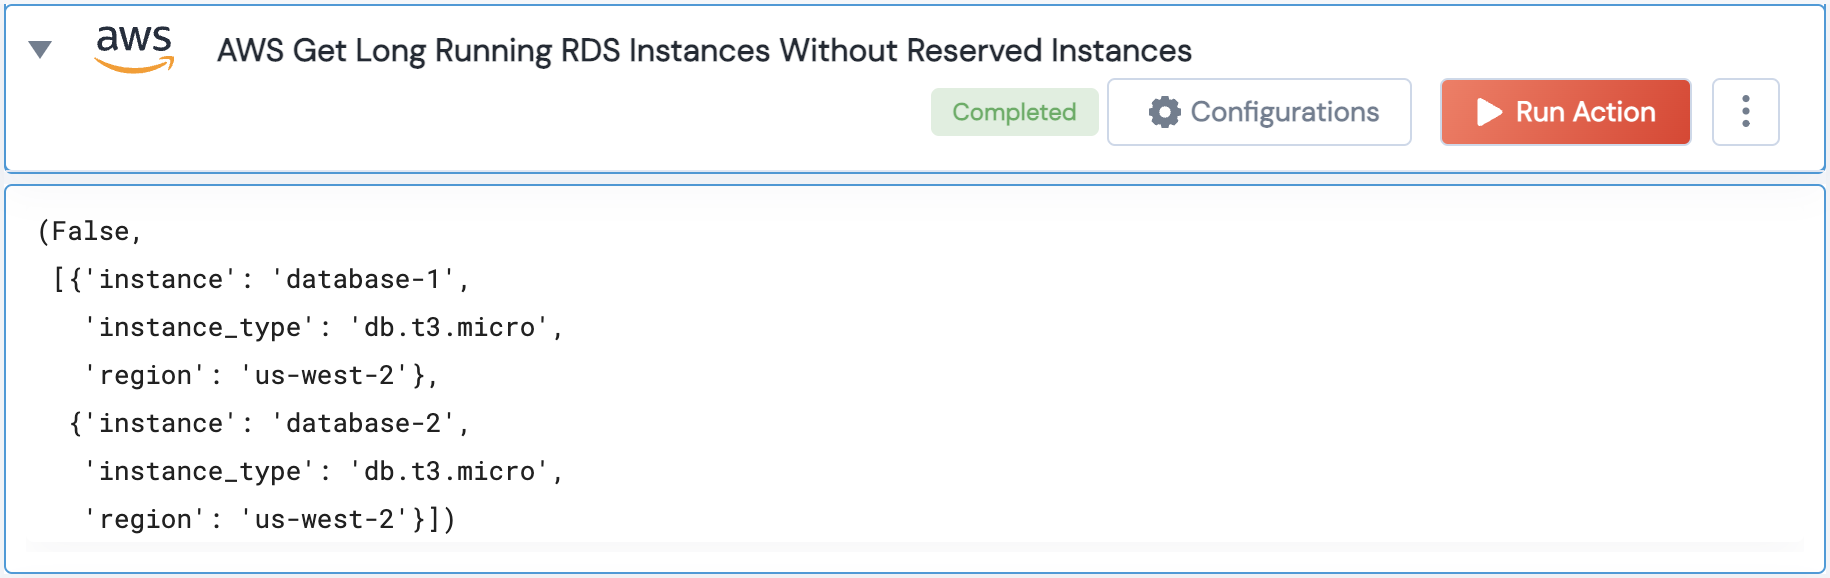
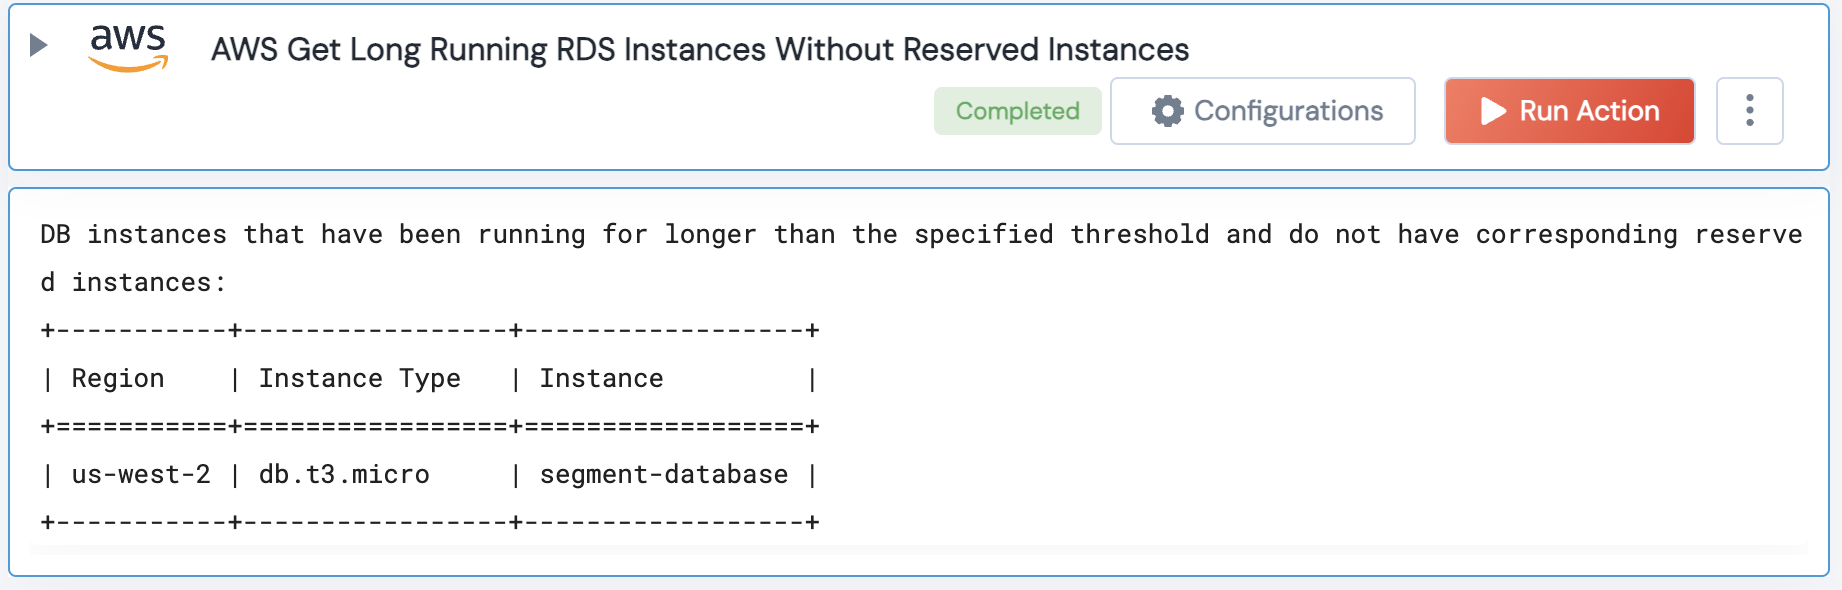
PR comments

diff --git a/AWS/legos/aws_get_long_running_rds_instances_without_reserved_instances/aws_get_long_running_rds_instances_without_reserved_instances.py b/AWS/legos/aws_get_long_running_rds_instances_without_reserved_instances/aws_get_long_running_rds_instances_without_reserved_instances.py
@@ -2,7 +2,7 @@
 ##  Copyright (c) 2023 unSkript, Inc
 ##  All rights reserved.
 ##
-import pprint
+from tabulate import tabulate
 from typing import Optional, Tuple
 from pydantic import BaseModel, Field
 from datetime import datetime,timedelta, timezone
@@ -19,22 +19,32 @@ class InputSchema(BaseModel):
 
 def aws_get_long_running_rds_instances_without_reserved_instances_printer(output):
     if output is None:
+        print("Output is None.")
         return
-    pprint.pprint(output)
+    status, res = output
+    if status:
+        print("There are no DB instances that have been running for longer than the specified threshold and do not have corresponding reserved instances.")
+    else:
+        print("DB instances that have been running for longer than the specified threshold and do not have corresponding reserved instances:")
+        table_data = [[item['region'], item['instance_type'], item['instance']] for item in res]
+        headers = ['Region', 'Instance Type', 'Instance']
+        table = tabulate(table_data, headers=headers, tablefmt='grid')
+        print(table)
 
-def aws_get_long_running_rds_instances_without_reserved_instances(handle, region: str = "", threshold:int=10) -> Tuple:
-    """aws_get_long_running_rds_instances_without_reserved_instances Gets all DB instances that are not m5 or t3.
 
-        :type handle: object
-        :param handle: Object returned from task.validate(...).
+def aws_get_long_running_rds_instances_without_reserved_instances(handle, region: str = "", threshold: float = 10.0) -> Tuple:
+    """aws_get_long_running_rds_instances_without_reserved_instances Gets all DB instances that have been running for longer than the specified threshold and do not have corresponding reserved instances.
 
-        :type region: string
-        :param region: AWS Region.
+    :type handle: object
+    :param handle: Object returned from task.validate(...).
 
-        :type threshold: int
-        :param threshold: Threshold(in days) to find long running RDS instances. Eg: 30, This will find all the instances that have been created a month ago.
+    :type region: string
+    :param region: AWS Region.
 
-        :rtype: A tuple with a Status,and list of DB instances that don't have reserved instances
+    :type threshold: int
+    :param threshold: Threshold(in days) to find long running RDS instances. Eg: 30, This will find all the instances that have been created a month ago.
+
+    :rtype: A tuple with a Status,and list of DB instances that don't have reserved instances
     """
     result = []
     all_regions = [region]
@@ -44,13 +54,11 @@ def aws_get_long_running_rds_instances_without_reserved_instances(handle, region
     for reg in all_regions:
         try:
             rdsClient = handle.client('rds', region_name=reg)
-            response = rdsClient.describe_reserved_db_instances() 
+            response = rdsClient.describe_reserved_db_instances()
             reservedInstancesPerType = {}
-            if response['ReservedDBInstances']:
+            if 'ReservedDBInstances' in response:
                 for ins in response['ReservedDBInstances']:
-                    reservedInstancesPerRegion[ins['DBInstanceClass']] = True
-            else:
-                continue
+                    reservedInstancesPerType[ins['DBInstanceClass']] = True
             reservedInstancesPerRegion[reg] = reservedInstancesPerType
         except Exception:
             pass
@@ -64,16 +72,15 @@ def aws_get_long_running_rds_instances_without_reserved_instances(handle, region
                     if 'InstanceCreateTime' in instance and 'DBInstanceClass' in instance:
                         uptime = datetime.now(timezone.utc) - instance['InstanceCreateTime']
                         if uptime > timedelta(days=threshold):
-                            # Check if the cluster node type is present in the reservedInstancesPerRegion map.
-                            reservedInstances = reservedInstancesPerRegion.get(reg)
-                            if reservedInstances is not None:
-                                if reservedInstances.get(instance['DBInstanceClass']) is True:
-                                    continue
-                            db_instance_dict = {}
-                            db_instance_dict["region"] = reg
-                            db_instance_dict["instance_type"] = instance['DBInstanceClass']
-                            db_instance_dict["instance"] = instance['DBInstanceIdentifier']
-                            result.append(db_instance_dict)
+                            # Check if the DB instance type is present in the reservedInstancesPerRegion map.
+                            reservedInstances = reservedInstancesPerRegion.get(reg, {})
+                            if not reservedInstances.get(instance['DBInstanceClass']):
+                                db_instance_dict = {
+                                    "region": reg,
+                                    "instance_type": instance['DBInstanceClass'],
+                                    "instance": instance['DBInstanceIdentifier']
+                                }
+                                result.append(db_instance_dict)
         except Exception:
             pass
 
@@ -81,5 +88,3 @@ def aws_get_long_running_rds_instances_without_reserved_instances(handle, region
         return (False, result)
     else:
         return (True, None)
-
-

diff --git a/AWS/legos/aws_get_schedule_to_retire_instances/aws_get_schedule_to_retire_instances.py b/AWS/legos/aws_get_schedule_to_retire_instances/aws_get_schedule_to_retire_instances.py
@@ -3,7 +3,6 @@
 # All rights reserved.
 ##
 
-import pprint
 from typing import Tuple, Optional
 from pydantic import BaseModel, Field
 from unskript.legos.aws.aws_list_all_regions.aws_list_all_regions import aws_list_all_regions
@@ -21,8 +20,11 @@ class InputSchema(BaseModel):
 def aws_get_schedule_to_retire_instances_printer(output):
     if output is None:
         return
-
-    pprint.pprint(output)
+    status, res = output
+    if status:
+        print("There are no instances that are scheduled to retire.")
+    else:
+        print(res)
 
 def aws_get_schedule_to_retire_instances( handle, region: str="") -> Tuple:
     """aws_get_schedule_to_retire_instances Returns a tuple of instances scheduled to retire.
@@ -32,31 +34,27 @@ def aws_get_schedule_to_retire_instances( handle, region: str="") -> Tuple:
 
         :rtype: Object with status, list of instances scheduled to retire, and errors
     """
-    retiring_instances = {}
     result = []
-    all_regions = [region] if region else aws_list_all_regions(handle)
+    all_regions = [region] if region or len(region)!=0 else aws_list_all_regions(handle)
 
     for r in all_regions:
         try:
             ec2client = handle.client('ec2', region_name=r)
-            output = aws_filter_ec2_instances(handle=handle, region=r)
-            if output:
-                for o in output:
-                    all_instances_dict = {"region": r, "instance": o}
-                    try:
-                        response = ec2client.describe_instance_status(
-                            Filters=[{'Name': 'event.code', 'Values': ['instance-retirement']}],
-                            InstanceIds=[all_instances_dict['instance']]
-                        )
-                        instance_statuses = response.get('InstanceStatuses', [])
-                        for res in instance_statuses:
-                            retiring_instances = {'instance': res['InstanceId'], 'region': r}
-                            result.append(retiring_instances)
-                    except Exception as e:
-                        print(f"An error occurred while describing instance status for instance {o} in region {r}: {e}")
+            instances = aws_filter_ec2_instances(handle=handle, region=r)
+            if not instances:
+                print(f"No instances found in {r} region!")
+                continue
+            try:
+                response = ec2client.describe_instance_status(
+                    Filters=[{'Name': 'event.code', 'Values': ['instance-retirement']}],
+                    InstanceIds=instances
+                )
+                instance_statuses = response.get('InstanceStatuses', [])
+                for res in instance_statuses:
+                    result.append({'instance': res['InstanceId'], 'region': r})
+            except Exception as e:
+                print(f"An error occurred while describing instance status for instances in region {r}: {e}")
         except Exception:
             pass
 
-    if result:
-        return (False, result)
-    return (True, None)
+    return (False, result) if result else (True, None)

diff --git a/Kubernetes/legos/k8s_get_all_evicted_pods_from_namespace/k8s_get_all_evicted_pods_from_namespace.py b/Kubernetes/legos/k8s_get_all_evicted_pods_from_namespace/k8s_get_all_evicted_pods_from_namespace.py
@@ -36,8 +36,7 @@ def k8s_get_all_evicted_pods_from_namespace(handle, namespace: str = "") -> Tupl
         :rtype: Tuple of status result and list of evicted pods
     """
     if handle.client_side_validation is not True:
-        print(f"K8S Connector is invalid: {handle}")
-        return False, None
+        raise ApiException(f"K8S Connector is invalid: {handle}")
 
     # Define the kubectl command based on the namespace input
     kubectl_command = "kubectl get pods --all-namespaces -o json"
@@ -48,11 +47,11 @@ def k8s_get_all_evicted_pods_from_namespace(handle, namespace: str = "") -> Tupl
         response = handle.run_native_cmd(kubectl_command)
     except Exception as e:
         print(f"Error occurred while executing command {kubectl_command}: {str(e)}")
-        raise e
+        raise
 
     if response is None:
         print(f"Error while executing command ({kubectl_command}) (empty response)")
-        raise e
+        raise ApiException("Empty response from kubectl command")
 
     if response.stderr:
         raise ApiException(f"Error occurred while executing command {kubectl_command} {response.stderr}")
@@ -61,14 +60,14 @@ def k8s_get_all_evicted_pods_from_namespace(handle, namespace: str = "") -> Tupl
     try:
         pod_details = json.loads(response.stdout)
         for pod in pod_details.get('items', []):
-            if pod['status']['phase'] == 'Failed' and any(cs.get('reason') == 'Evicted' for cs in pod['status']['conditions']):
+            if pod['status']['phase'] == 'Failed' and any(cs.get('reason') == 'Evicted' for cs in pod['status'].get('conditions', [])):
                 pod_dict = {
                     "pod_name": pod["metadata"]["name"],
                     "namespace": pod["metadata"]["namespace"]
                 }
                 result.append(pod_dict)
-    except Exception as e:
-        raise e
+    except Exception:
+        raise
 
     if result:
         return (False, result)

diff --git a/AWS/legos/aws_get_iam_users_without_attached_policies/aws_get_iam_users_without_attached_policies.py b/AWS/legos/aws_get_iam_users_without_attached_policies/aws_get_iam_users_without_attached_policies.py
@@ -12,19 +12,23 @@ class InputSchema(BaseModel):
 
 
 
-def aws_get_iam_users_without_password_policies_printer(output):
+def aws_get_iam_users_without_attached_policies(output):
     if output is None:
         return
-    pprint.pprint(output)
+    status, res = output
+    if status:
+        print("There are no IAM users that do not have any user-managed or AWS-managed policies attached to them")
+    else:
+        print("IAM users that do not have any user-managed or AWS-managed policies attached to them: ",res)
 
 
-def aws_get_iam_users_without_password_policies(handle) -> Tuple:
-    """aws_get_iam_users_without_password_policies lists all the IAM users no password policy.
+def aws_get_iam_users_without_attached_policies(handle) -> Tuple:
+    """aws_get_iam_users_without_attached_policies lists all the IAM users that do not have any user-managed or AWS-managed policies attached to them
 
         :type handle: object
         :param handle: Object returned from Task Validate
 
-        :rtype: Status, List of IAM users without any password policy
+        :rtype: Status, List os all IAM users that do not have any user-managed or AWS-managed policies attached to them
     """
     result = []
     iam_client = handle.client('iam')

diff --git a/AWS/legos/aws_get_iam_users_without_attached_policies/README.md b/AWS/legos/aws_get_iam_users_without_attached_policies/README.md
@@ -1,12 +1,12 @@
 [<img align="left" src="https://unskript.com/assets/favicon.png" width="100" height="100" style="padding-right: 5px">]
 (https://unskript.com/assets/favicon.png)
-<h1>AWS List IAM users without password policies</h1>
+<h1>AWS list IAM users without attached policies</h1>
 
 ## Description
-Get a list of all IAM users that have no password policy attached to them.
+Get a list of all IAM users that do not have any user-managed or AWS-managed policies attached to them.
 
 ## Lego Details
-	aws_get_iam_users_without_password_policies(handle)
+	aws_get_iam_users_without_attached_policies(handle)
 		handle: Object of type unSkript AWS Connector.
 
 ## Lego Input
